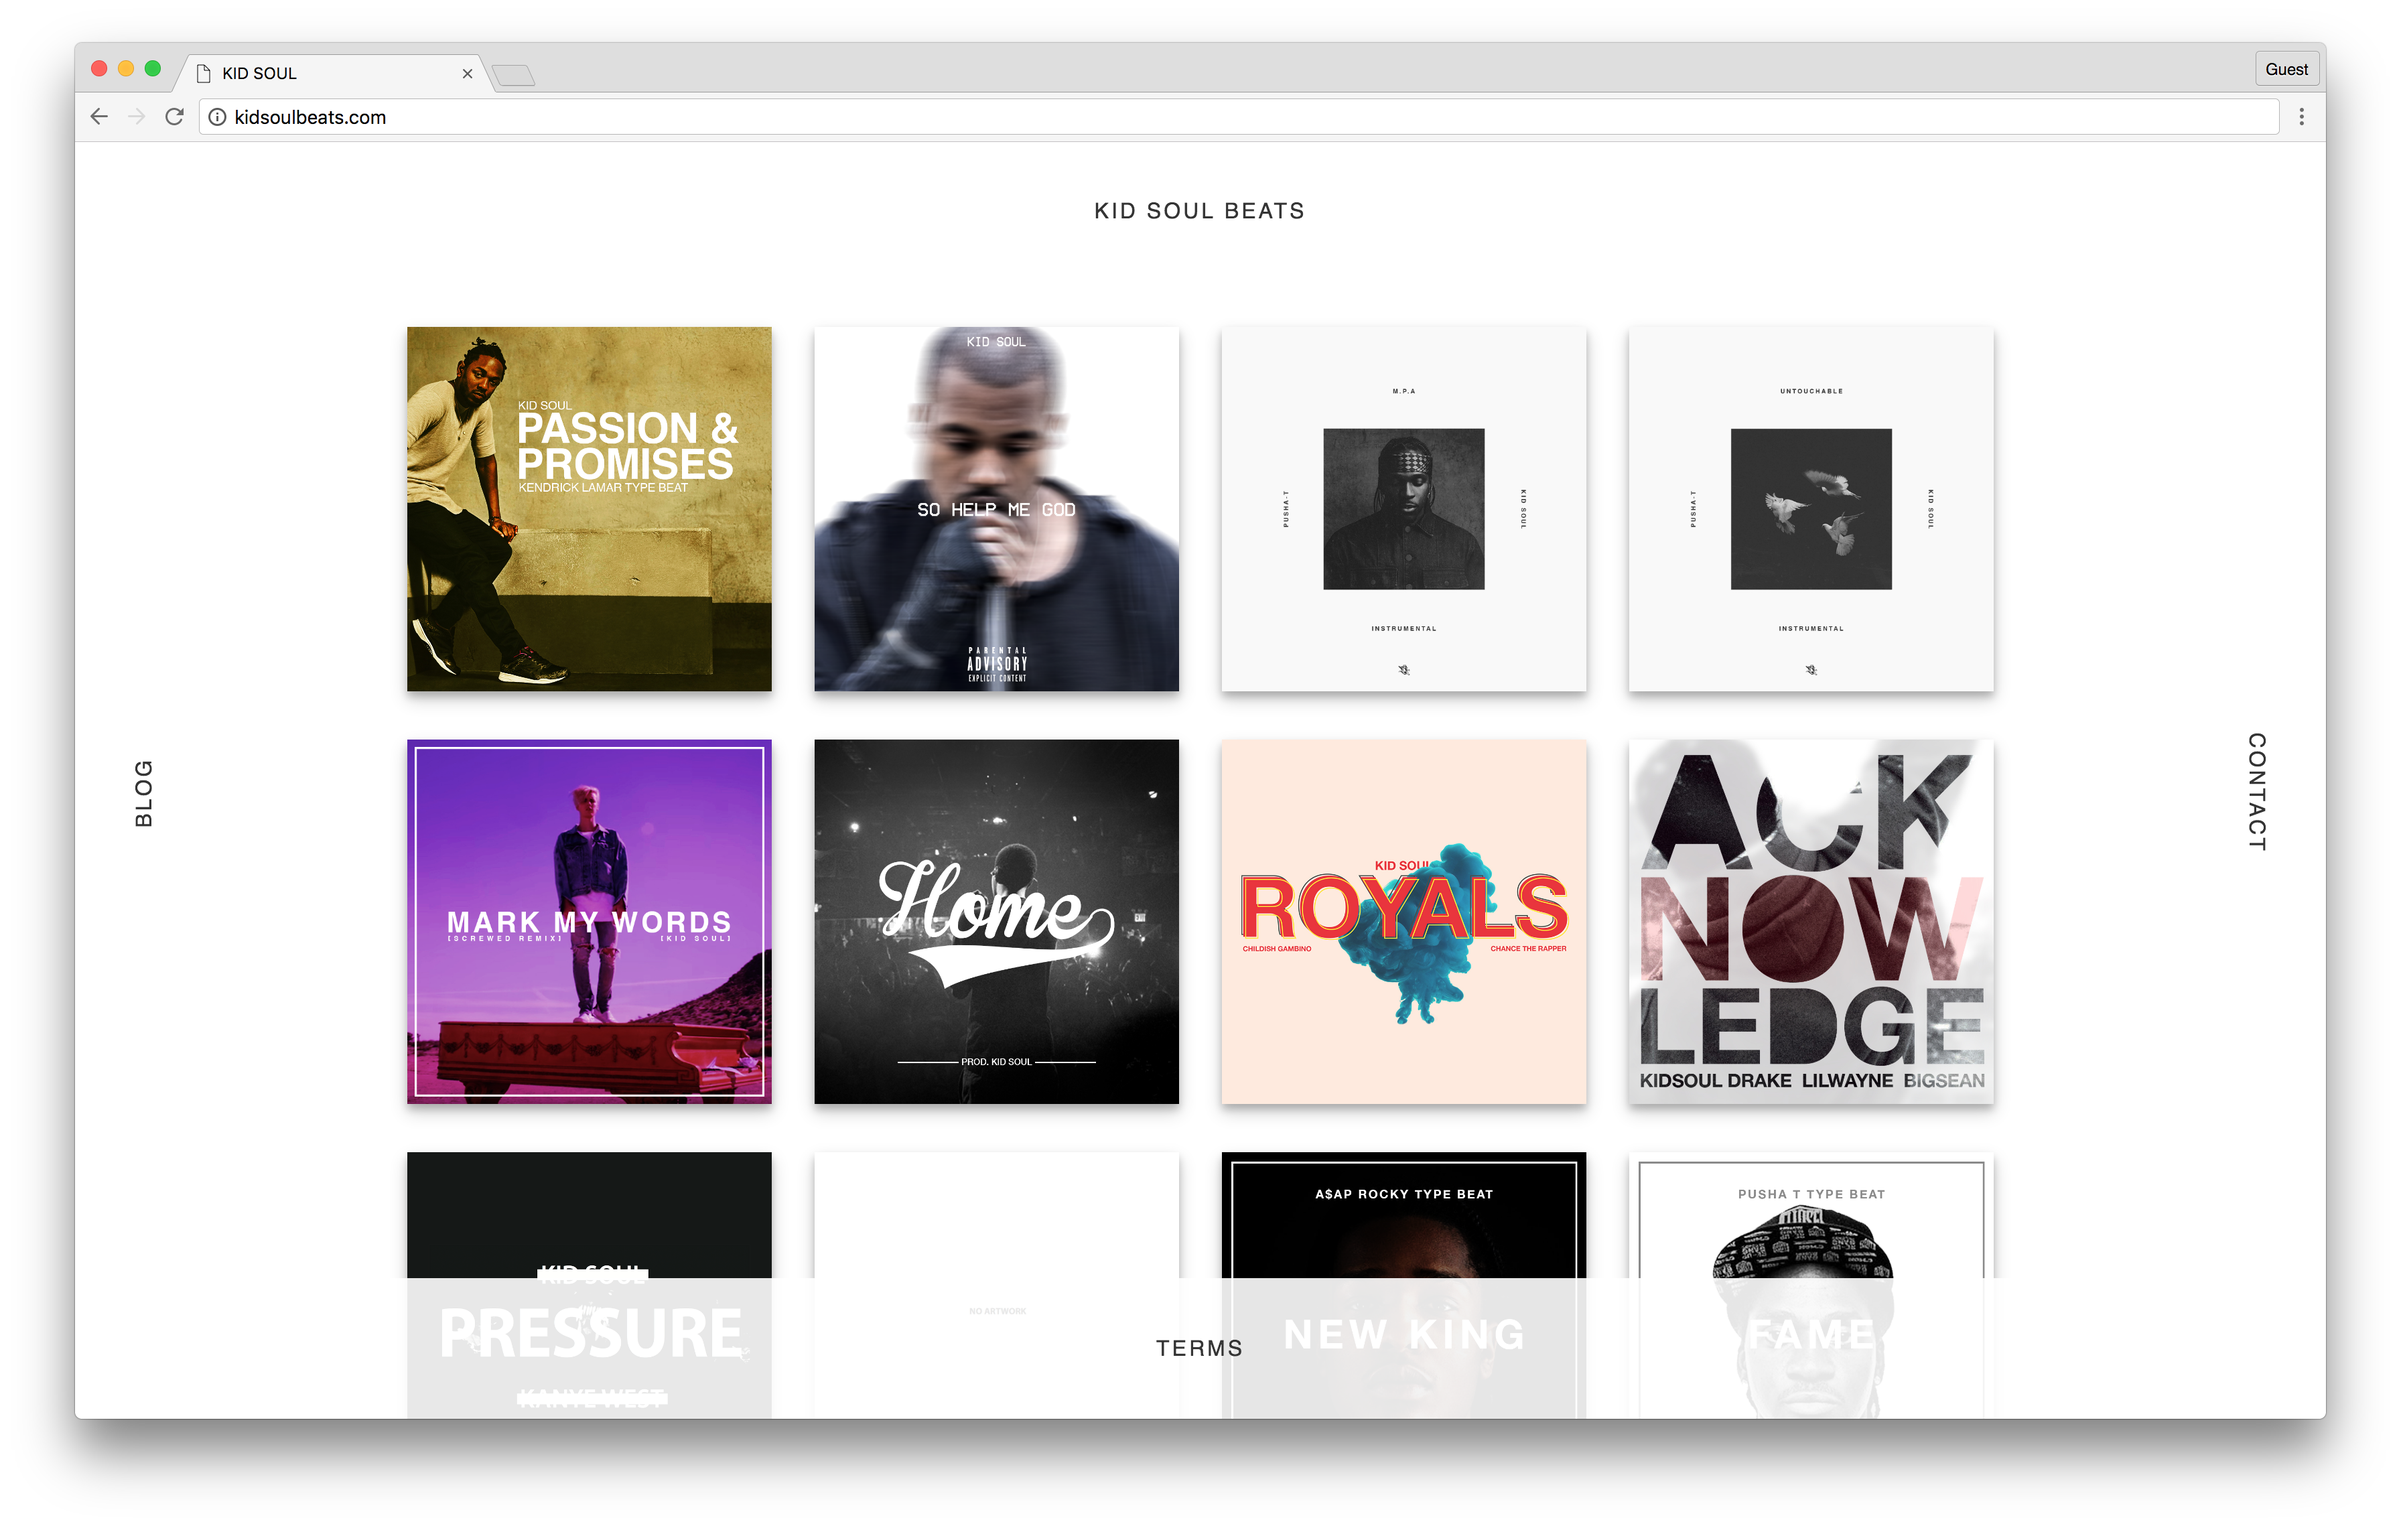
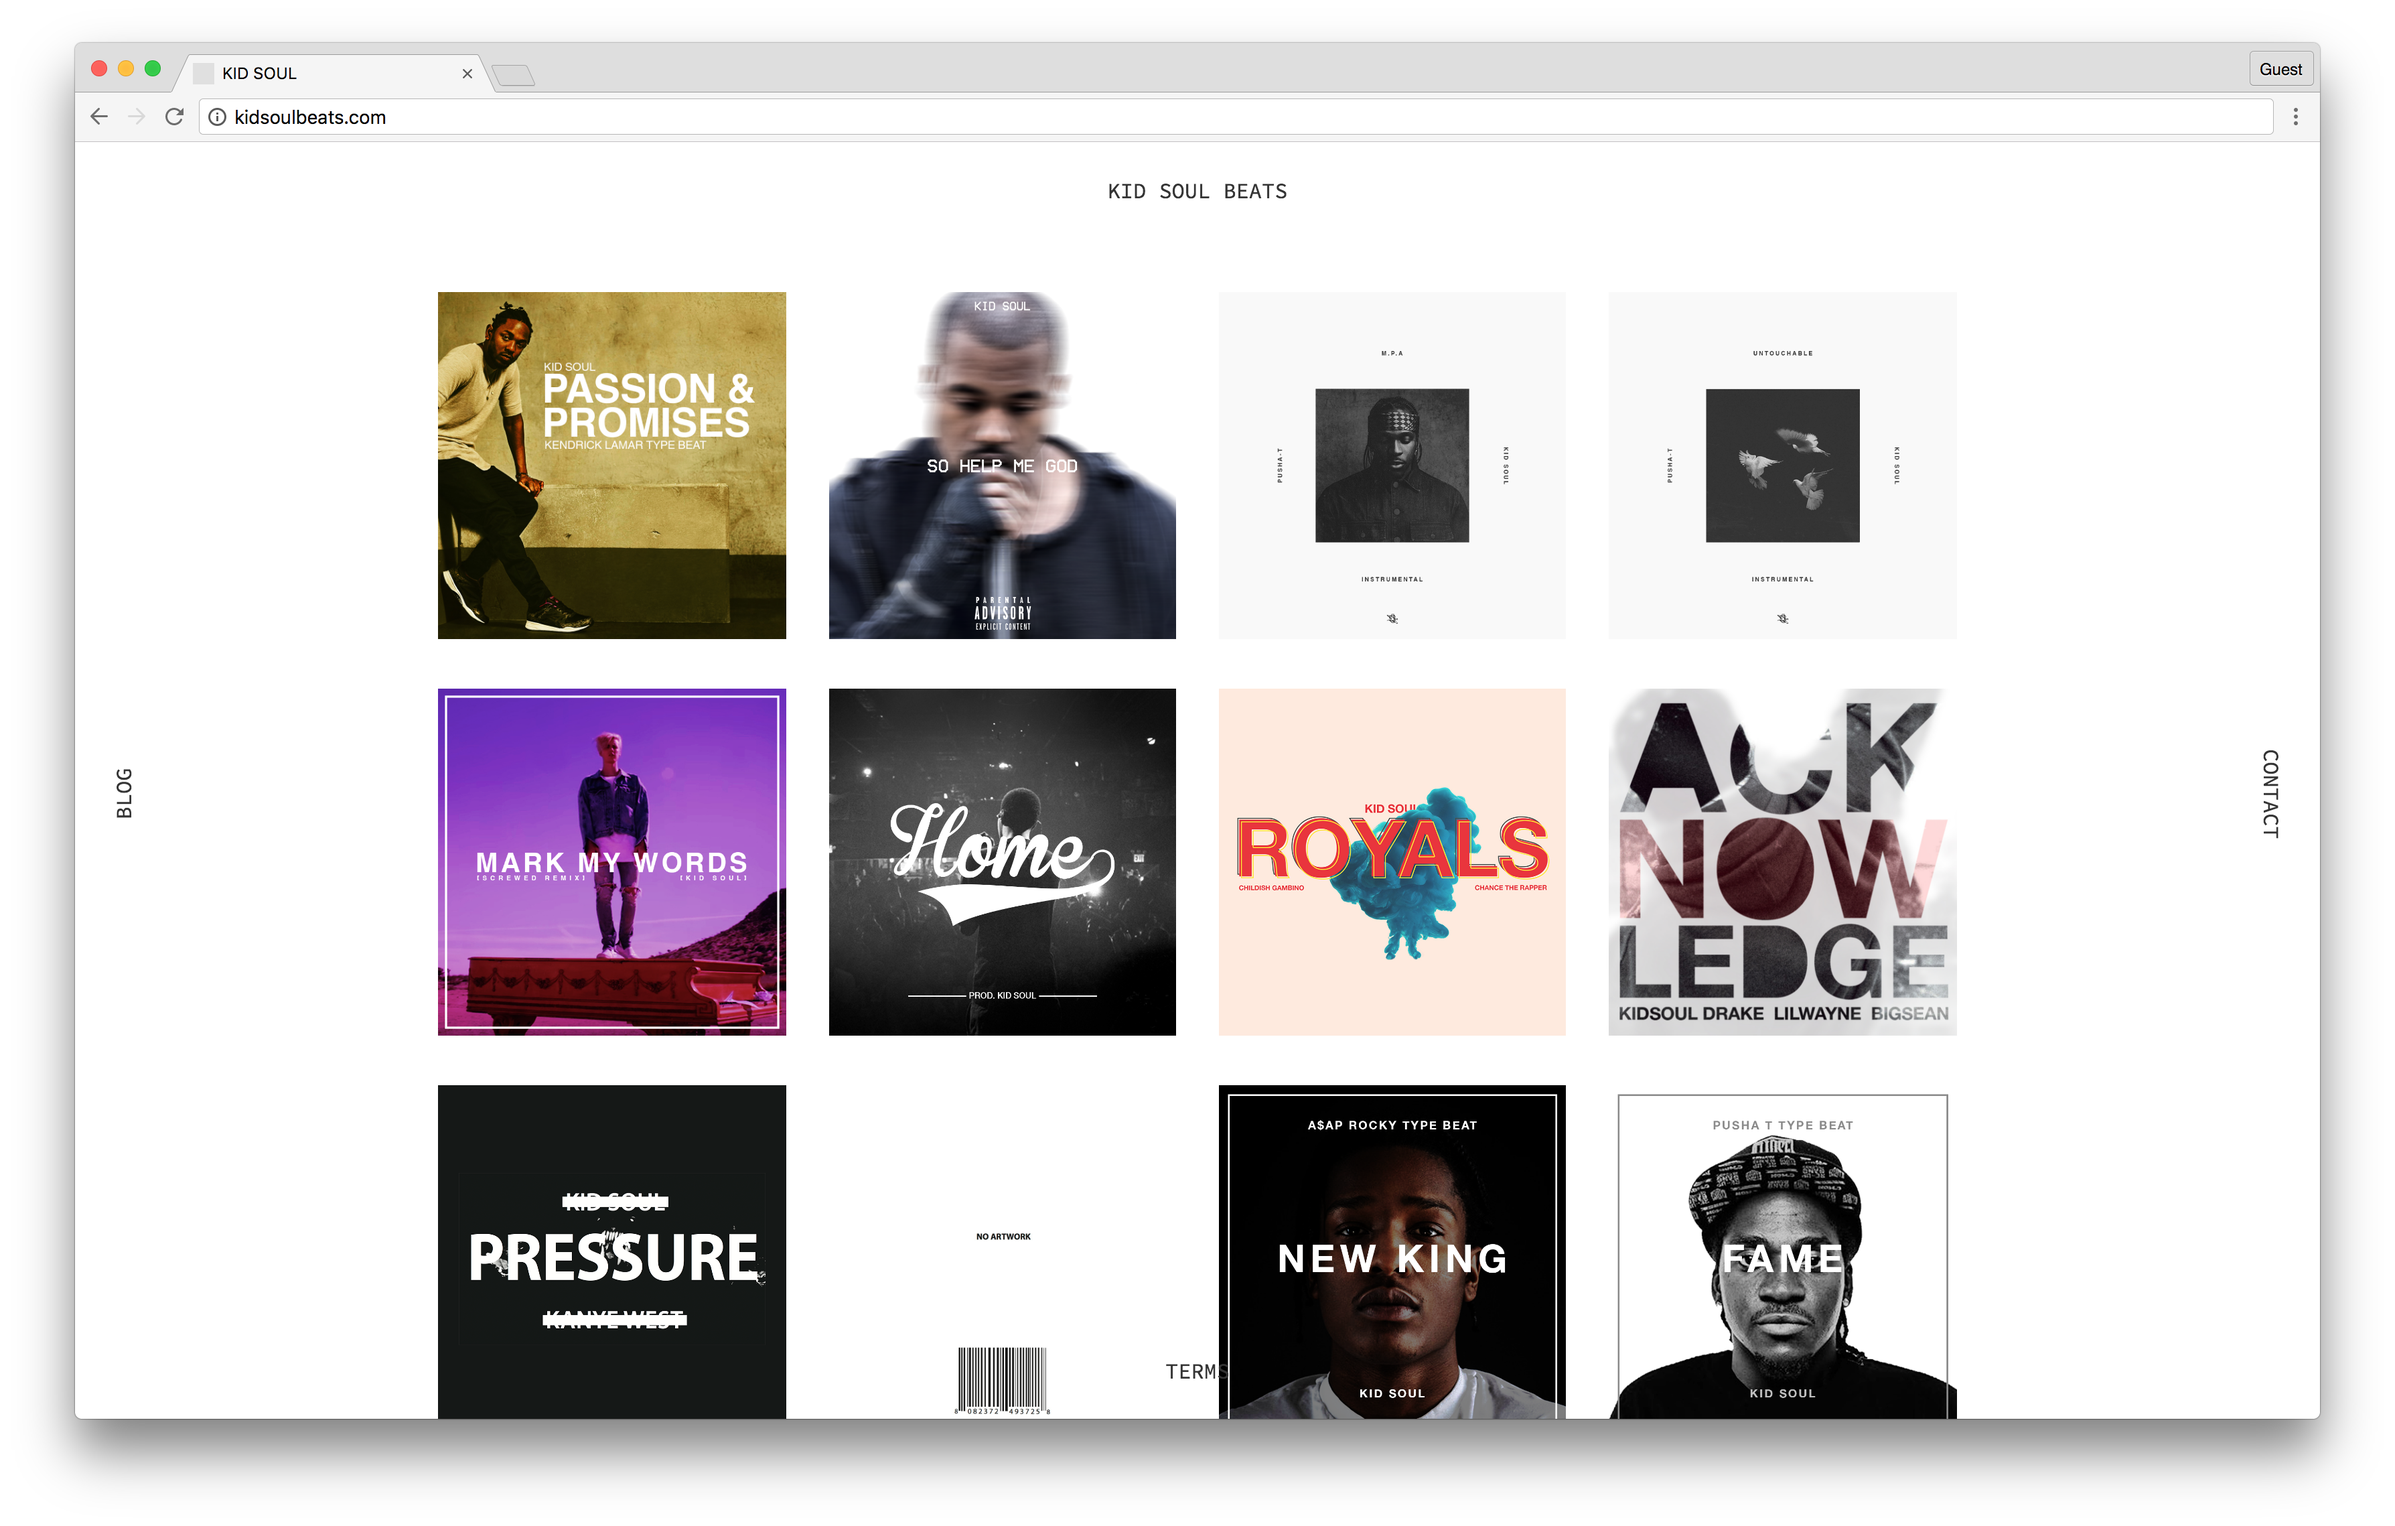
V2 slight change

diff --git a/css/style.css b/css/style.css
@@ -84,7 +84,7 @@ a.highlight{
 }
 
 .back-top{
-    background: white;
+    /*background: white;*/
     width: 100%;
     height: calc(2.5vw + 4vh);
     position: fixed;
@@ -94,7 +94,7 @@ a.highlight{
 }
 
 .back-bottom{
-    background: white;
+    /*background: white;*/
     width: 100%;
     height: calc(2.5vw + 4vh);
     position: fixed;
@@ -104,7 +104,7 @@ a.highlight{
 }
 
 .back-left{
-    background: white;
+    /*background: white;*/
     height: 100%;
     width: calc(2.5vw + 4vh);
     position: fixed;
@@ -114,7 +114,7 @@ a.highlight{
 }
 
 .back-right{
-    background: white;
+    /*background: white;*/
     height: 100%;
     width: calc(2.5vw + 4vh);
     position: fixed;
@@ -130,11 +130,12 @@ a.highlight{
 
 .art{
     width: 100%;
-    box-shadow: 0 1px 1px 0 rgba(0, 0, 0, 0.2), 0 1px 3px 0 rgba(0, 0, 0, 0.19)
+    /*box-shadow: 0 1px 1px 0 rgba(0, 0, 0, 0.2), 0 1px 3px 0 rgba(0, 0, 0, 0.19)*/
 }
 
 .art:hover{
-  box-shadow: 0 0px 10px 1px rgba(0, 0, 0, 0.2), 0 1px 5px 0 rgba(0, 0, 0, 0.19)
+  /*box-shadow: 0 1px 1px 0 rgba(0, 0, 0, 0.2), 0 1px 3px 0 rgba(0, 0, 0, 0.19);*/
+  /*box-shadow: 0 0px 10px 1px rgba(0, 0, 0, 0.2), 0 1px 5px 0 rgba(0, 0, 0, 0.19)*/
 }
 
 .blur{
